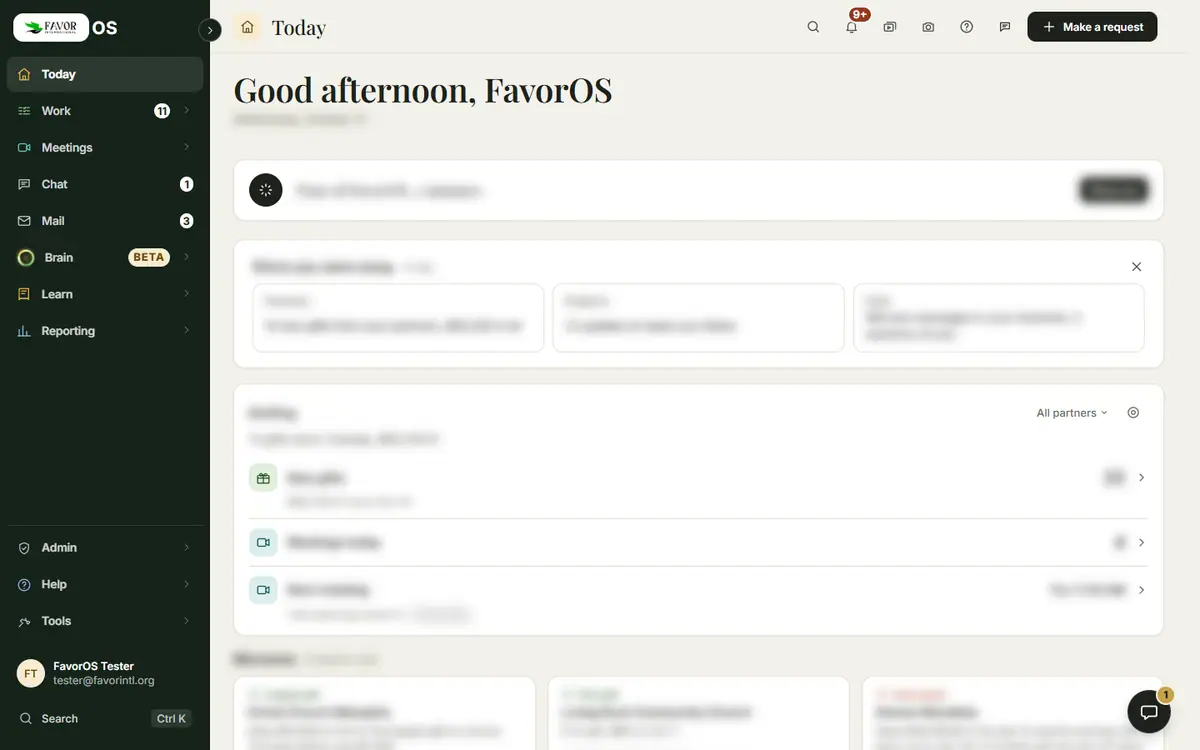
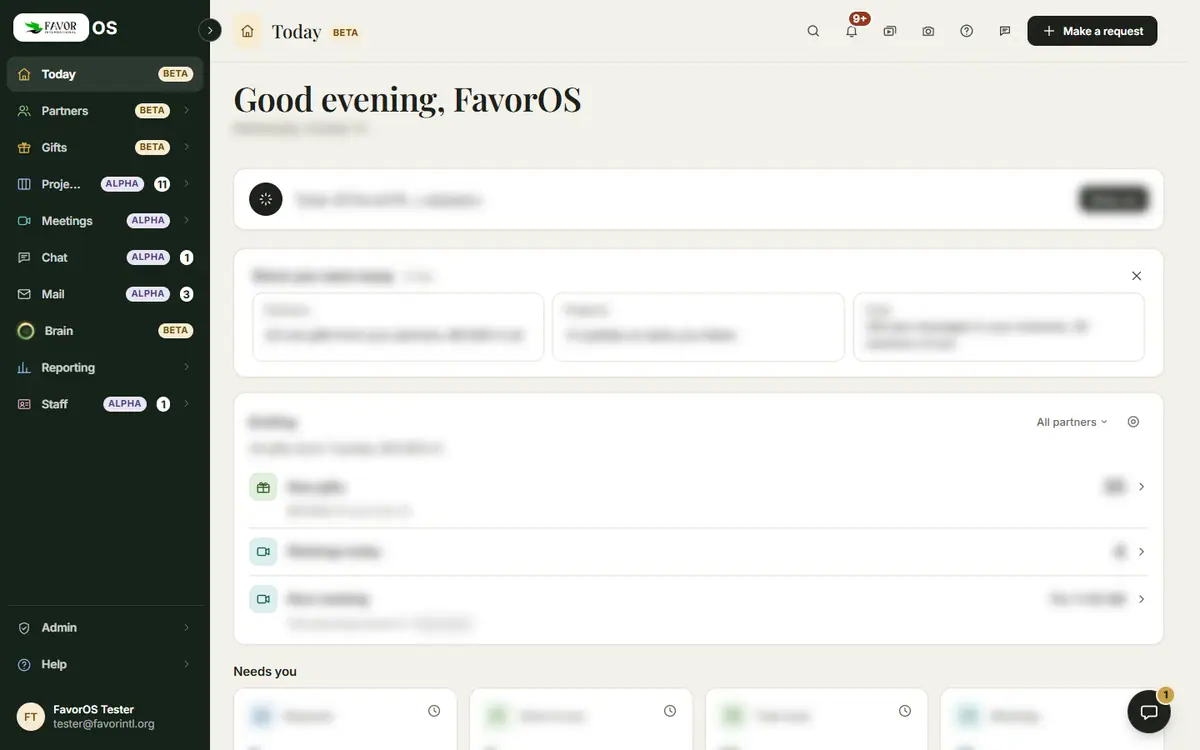
Navigation: swapped pages wait for their answers to be read, changelog pictures hold their space, full sidebar keeps area names whole; What's new for the Work split

diff --git a/public/js/hub-swap.js b/public/js/hub-swap.js
@@ -251,6 +251,7 @@
       if (done) return;
       done = true; clearTimeout(quietT); clearTimeout(capT); mo.disconnect();
       if (window.fetch === wrapped) window.fetch = of;
+      if (RP) Object.keys(body).forEach((k) => { RP[k] = body[k]; });
       main.classList.remove('is-settling');
       settling = null;
       document.dispatchEvent(new CustomEvent('hub-settled'));
@@ -264,6 +265,17 @@
       return p;
     };
     window.fetch = wrapped;
+    // A read counts until its body has been read: a long answer (the expense log) arrives in pieces after its headers.
+    const RP = window.Response && Response.prototype;
+    const body = {};
+    if (RP) ['json', 'text'].forEach((k) => {
+      body[k] = RP[k];
+      RP[k] = function () {
+        const q = body[k].apply(this, arguments);
+        if (!done) { pending++; clearTimeout(quietT); const end = () => { pending = Math.max(0, pending - 1); quiet(); }; q.then(end, end); }
+        return q;
+      };
+    });
     const mo = new MutationObserver(() => { if (!pending) quiet(); });
     mo.observe(main, { childList: true, subtree: true, attributes: true, characterData: true });
     const capT = setTimeout(finish, 1500);

diff --git a/src/content.config.ts b/src/content.config.ts
@@ -24,7 +24,7 @@ const help = defineCollection({
 
 // The changelog: one file per day in src/content/changelog (YYYY-MM-DD.md, frontmatter only). Entries newest first,
 // written for staff. `behind` counts internal-only commits that day. scripts/changelog-draft.mjs drafts a new day.
-export const CHANGE_AREAS = ['today', 'partners', 'work-center', 'requests', 'projects', 'expenses', 'receipts', 'gifts', 'statements', 'evaluations', 'learn', 'onboarding', 'foundations', 'meetings', 'clips', 'chat', 'mail', 'brain', 'reporting', 'lists', 'admin', 'help', 'phone', 'everywhere'] as const;
+export const CHANGE_AREAS = ['today', 'partners', 'work-center', 'requests', 'projects', 'expenses', 'receipts', 'gifts', 'statements', 'evaluations', 'learn', 'onboarding', 'staff', 'foundations', 'meetings', 'clips', 'chat', 'mail', 'brain', 'reporting', 'lists', 'admin', 'help', 'phone', 'everywhere'] as const;
 const changelog = defineCollection({
   loader: glob({ pattern: ['**/*.md', '!**/*.draft.md'], base: './src/content/changelog' }),
   schema: z.object({

diff --git a/src/styles/nav-areas.css b/src/styles/nav-areas.css
@@ -116,3 +116,7 @@ body.h-body #h-content.is-settling::before { content: ''; position: absolute; z-
   body.h-body .h-app.is-nav .h-area--more .h-pg--area .h-pg__a { color: rgba(255, 255, 255, 0.86); padding-left: 14px; min-height: 48px; font-size: 13px; }
   body.h-body .h-app.is-nav .h-area--more .h-pg--area .h-i { color: var(--soft-slate); }
 }
+
+/* Full sidebar: an area's name never gives way to its badge and count ("Proje..." beside Alpha and 11). */
+html.nav-wide body.h-body .h-area__link .h-area__label, body.h-body .h-app.is-peek .h-area__link .h-area__label, body.h-body .h-app.is-nav .h-area__link .h-area__label { flex: 0 0 auto; overflow: visible; }
+html.nav-wide body.h-body .h-area__link .h-rel, body.h-body .h-app.is-peek .h-area__link .h-rel { padding: 0 5px; font-size: 10px; margin-left: 4px; }

diff --git a/src/data/changelog.ts b/src/data/changelog.ts
@@ -3,7 +3,7 @@ import shots from './changelog-shots.json';
 
 export const AREA_LABEL: Record<string, string> = {
   today: 'Today', partners: 'Partners', 'work-center': 'Work Center', requests: 'Requests', projects: 'Projects', expenses: 'Expenses',
-  receipts: 'Receipts', gifts: 'Gifts', statements: 'Statements', evaluations: 'Evaluations', learn: 'Learn', onboarding: 'Onboarding',
+  receipts: 'Receipts', gifts: 'Gifts', statements: 'Statements', evaluations: 'Evaluations', learn: 'Learn', onboarding: 'Onboarding', staff: 'Staff',
   foundations: 'Foundations', meetings: 'Meetings', clips: 'Clips', chat: 'Chat', mail: 'Mail', brain: 'Favor Brain', reporting: 'Reporting',
   lists: 'Lists', admin: 'Admin', help: 'Help', phone: 'Phone and Lite', everywhere: 'All of FavorOS',
 };

diff --git a/public/js/changelog.js b/public/js/changelog.js
@@ -51,6 +51,8 @@
     img.src = phone || b.dataset.src;
     img.alt = '';
     img.decoding = 'async';
+    // The pictures are 1200 by 750 (desktop) and 600 by 1200 (phone); the space is held before they arrive, so nothing below moves.
+    if (phone) { img.width = 600; img.height = 1200; } else { img.width = 1200; img.height = 750; }
     fig.appendChild(img);
     if (b.dataset.now) { var c = document.createElement('figcaption'); c.textContent = "Today's view"; fig.appendChild(c); }
     b.replaceWith(fig);

diff --git a/src/content/changelog/2026-10-14.md b/src/content/changelog/2026-10-14.md
@@ -21,6 +21,34 @@ entries:
     area: meetings
     type: new
     text: "You can press Find a time in a Chat conversation (the + menu), a request, a task's menu or a partner's page. It suggests times when everyone is free, books the meeting with a calendar invite, and puts the meeting card back where you started. When the notes are ready they come back there too."
+  - time: "18:45"
+    area: everywhere
+    type: improved
+    text: "Work is now four areas, one for each kind of work. Partners holds your actions and foundations. Gifts holds gift entry, online gifts, receipts and statements. Projects holds your tasks and the request board. Staff holds expenses, evaluations, learning and onboarding. The areas for your job sit in the menu, and More holds the others. Every page in More is open to you."
+    image: /changelog/2026-10-14/nav-everywhere-desk.webp
+    phone: /changelog/2026-10-14/nav-everywhere-phone.webp
+  - time: "18:45"
+    area: gifts
+    type: improved
+    text: "Each page shows its area above its name, and the page's tabs sit on their own row underneath. An area shows at most six tabs. More at the end of the row holds the rest and says whose job each one is. On a phone the tabs are a row of buttons you can swipe."
+    image: /changelog/2026-10-14/nav-gifts-desk.webp
+    phone: /changelog/2026-10-14/nav-gifts-phone.webp
+  - time: "18:45"
+    area: staff
+    type: fixed
+    text: "Moving between the tabs of an area keeps the menu and the header still. Alpha and Beta on a tab are a small dot that never changes the tab's size. Each page shows when its first numbers are in, so nothing jumps as it loads. The expense log opens in under a second."
+    image: /changelog/2026-10-14/nav-staff-desk.webp
+    phone: /changelog/2026-10-14/nav-staff-phone.webp
+  - time: "18:45"
+    area: everywhere
+    type: new
+    text: "Search lists your pages first, then things to do: Start a deposit, Make a request, New expense request and Find a partner. For a month, a page that moved shows where it was, such as Was Work > Statements. Press G and a letter to jump to an area: G P for Partners, G G for Gifts, G J for Projects, G S for Staff."
+  - time: "18:45"
+    area: partners
+    type: improved
+    text: "Blackbaud and Paycom moved into the menu under your name at the bottom of the menu. Learning moved into Staff. The Work Center is Partners > Actions."
+    image: /changelog/2026-10-14/nav-partners-desk.webp
+    phone: /changelog/2026-10-14/nav-partners-phone.webp
   - time: "17:55"
     area: requests
     type: new
